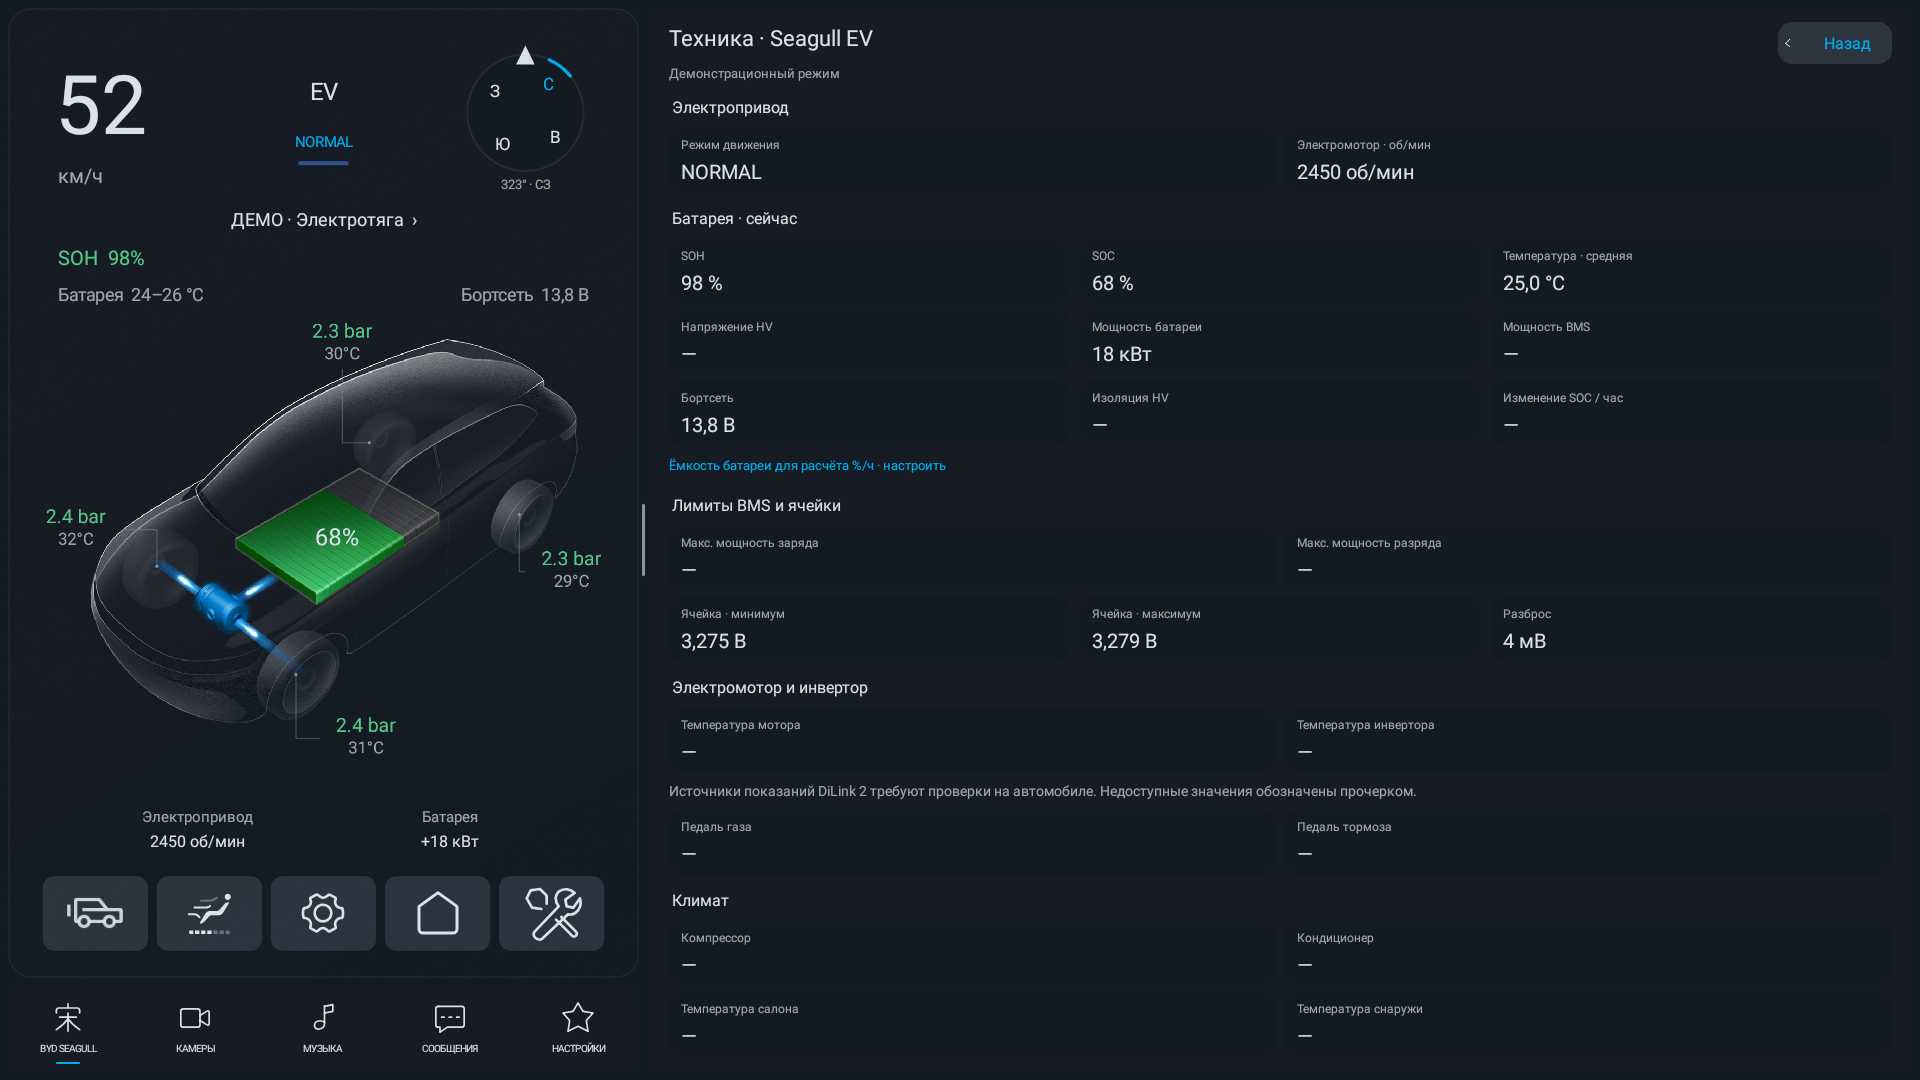
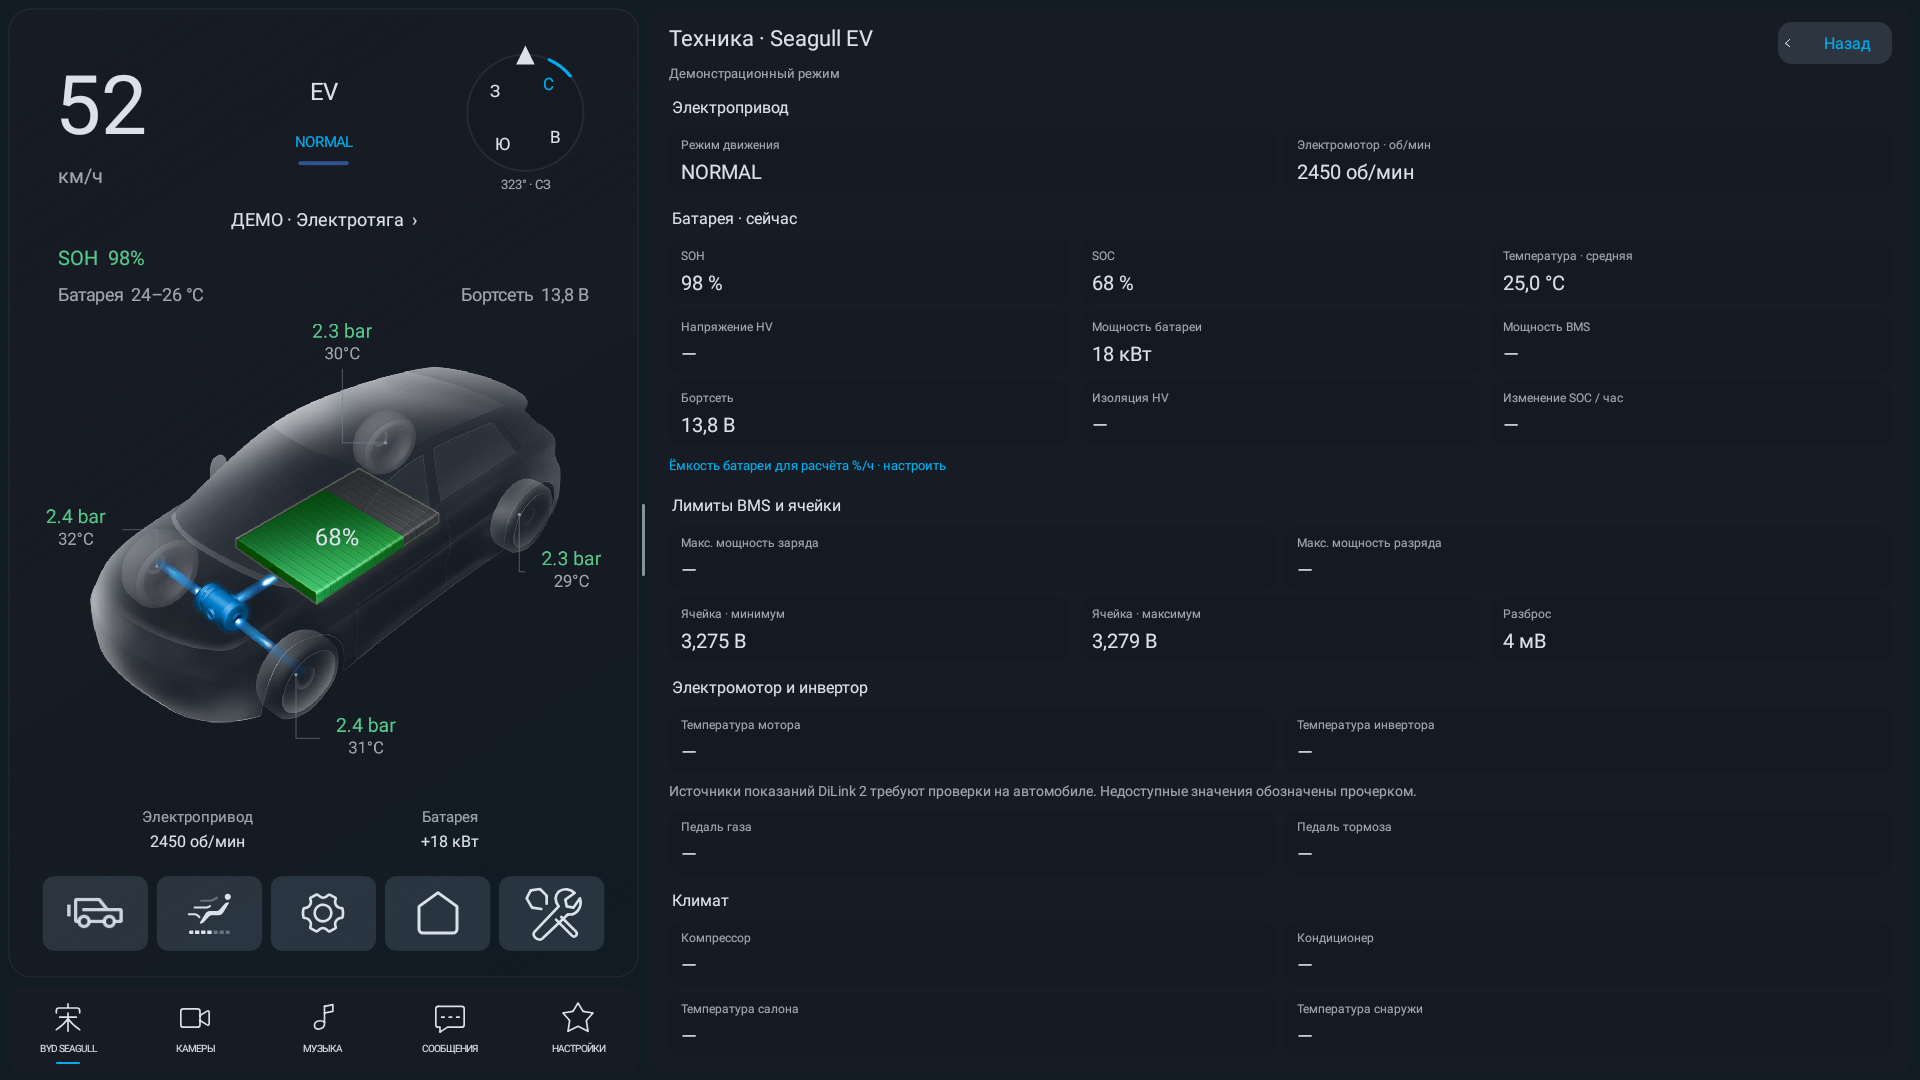
ui: use owner-selected Di5 CROSS vehicle silhouette

Changed region(s): [[0.0312, 0.3056, 0.3125, 0.6722]]

diff --git a/app/src/main/java/ru/logunov/bydsplit/VehicleDashboardView.java b/app/src/main/java/ru/logunov/bydsplit/VehicleDashboardView.java
@@ -230,8 +230,8 @@ final class VehicleDashboardView extends View {
         String label = demoMode ? "ДЕМО · " + SCENARIOS[demoScenario] + "  ›" : "Состояние автомобиля";
         drawText(canvas, label, width * .5f, height * .225f, width * .029f,
                 TEXT_PRIMARY, Paint.Align.CENTER);
-        // Native Energy screen uses this 1170 × 1034 isometric SUV asset.
-        // Keep the body, battery and powertrain in the same projection.
+        // Owner-selected Di5 CROSS body, normalized to the existing scene bounds.
+        // Preserve the isometric layout, battery and electric powertrain.
         float scale = Math.min(width / 1170f, height * .61f / 1034f);
         float left = (width - 1170f * scale) / 2;
         float sceneBaseTop = height * .275f;
@@ -268,7 +268,7 @@ final class VehicleDashboardView extends View {
         drawNativeTireLabel(canvas, shown.tirePressRlKpa, shown.tireTempRlC,
                 1045, 572, 948, 478, Paint.Align.CENTER);
         drawNativeTireLabel(canvas, shown.tirePressRrKpa, shown.tireTempRrC,
-                620, 150, 670, 345, Paint.Align.CENTER);
+                620, 150, 700, 345, Paint.Align.CENTER);
         canvas.restore();
         // A compact legend belongs to the same scene; no second energy card.
         float y = Math.min(height * .865f, sceneBaseTop + 1034 * scale + height * .018f);

diff --git a/AGENTS.md b/AGENTS.md
@@ -15,6 +15,8 @@
 Локальные OTA, распаковки и декомпиляция: `tmp/ota-di2`, `tmp/ota-di5`.
 Находки, каталог SDK и происхождение ресурсов: `docs/firmware/README.md`.
 Не объявлять общий кузов из многомодельной OTA точной моделью Seagull.
+Владелец выбрал похожий на Seagull силуэт `newenergy_flow_car_img_cross`:
+использовать его дневную/ночную версии с соответствующими тенями.
 Тема авто следует Android uiMode, как штатный Di2 SystemUI; ручной выбор
 локален для лаунчера. Не переносить Binder-адреса из Di5 в Di2 без проверки.
 Не переносить предположения о DiLink 5 / Android 12 и телеметрии
